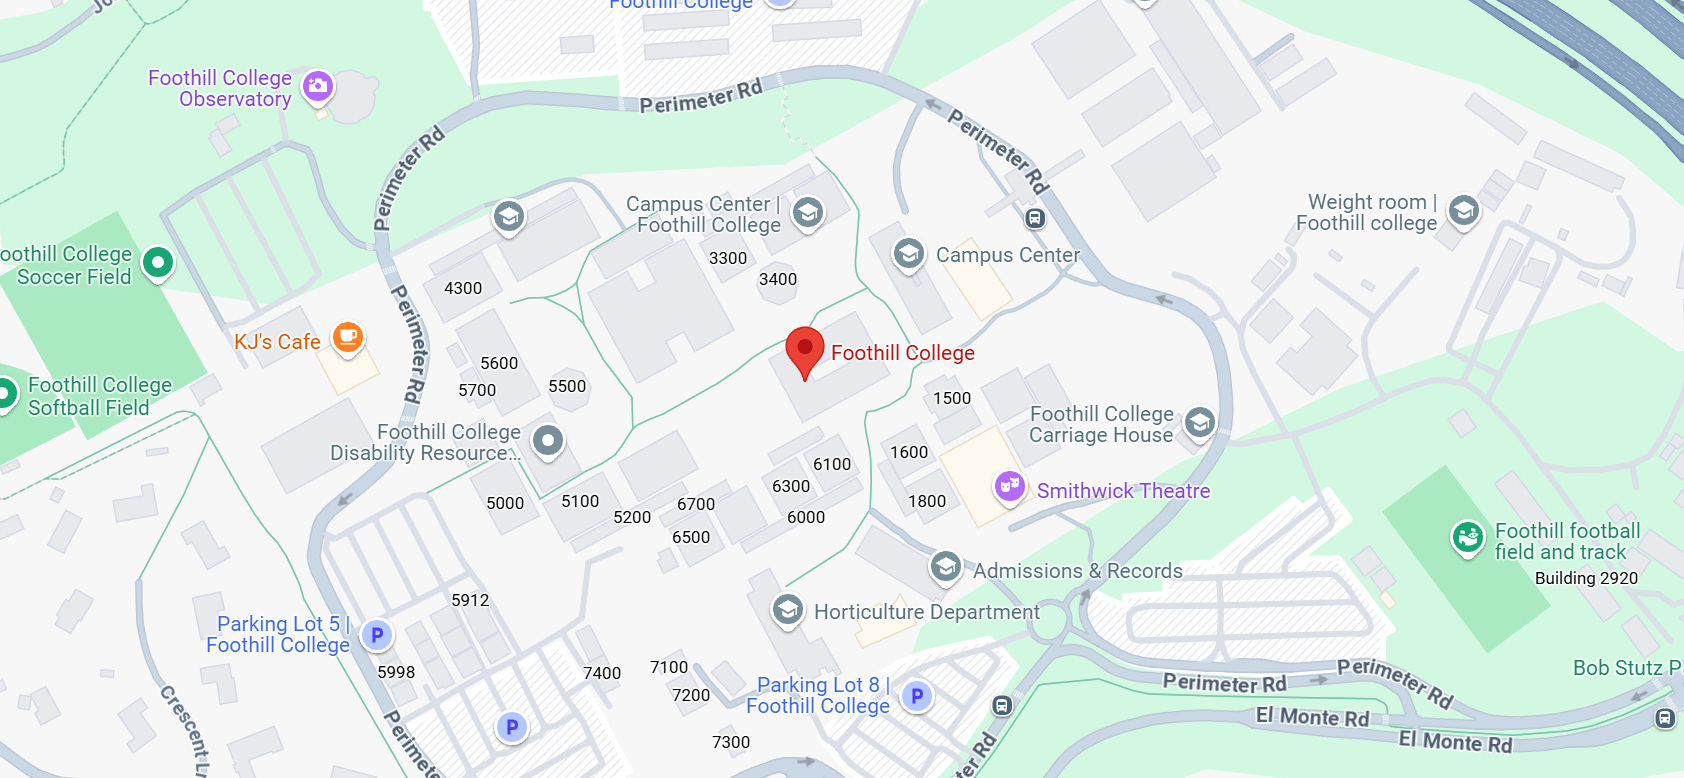
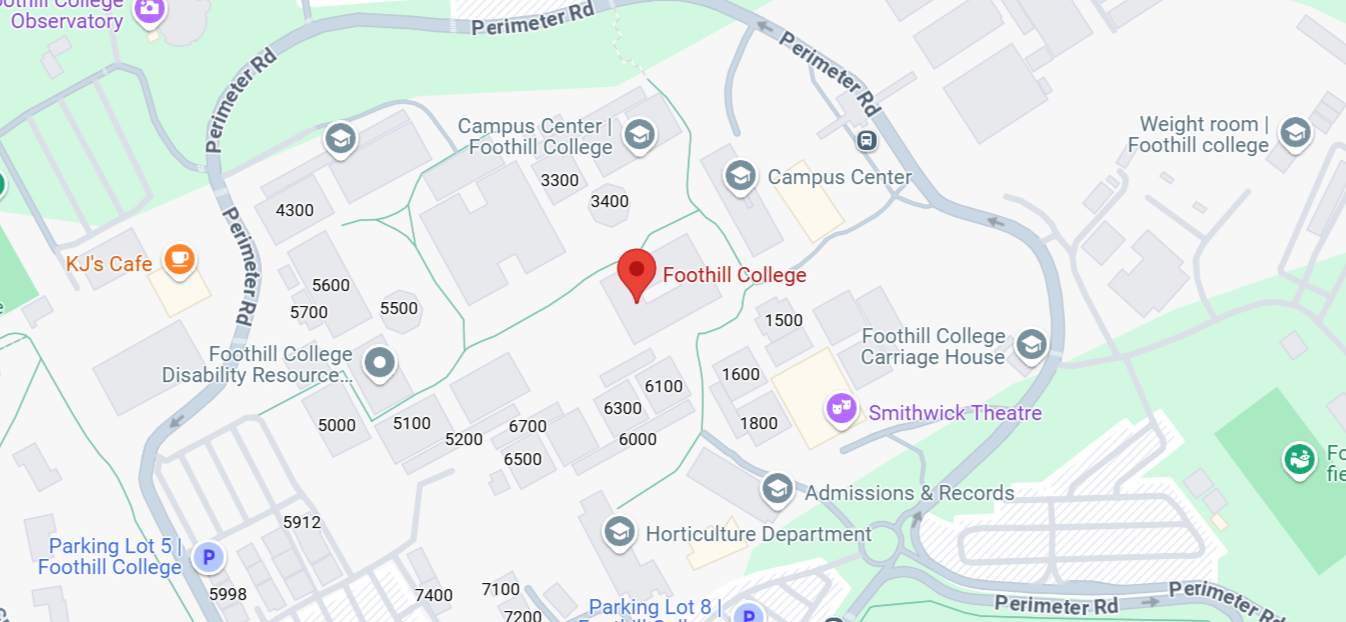
updated venue

diff --git a/client/src/features/attendee/AttendeeContainer.tsx b/client/src/features/attendee/AttendeeContainer.tsx
@@ -2,6 +2,9 @@
 import Image from "next/image";
 import cloud from "../../../public/Dark Purple Cloud Mid.png"
 import cloud2 from "../../../public/Dark Purple Cloud Back2.png"
+import pinkcloud1 from "../../../public/leftmapcloud.png"
+import pinkcloud2 from "../../../public/Purple Cloud Cluster.png"
+import pinkcloud3 from "../../../public/rightmapcloud.png"
 import AttendeeCard from "./ui/AttendeeCard"
 import minh from "../../../public/minh.jpg"
 import ethan from "../../../public/ethan.png"
@@ -17,6 +20,9 @@ export default function AttendeeContainer() {
         <div className="relative bg-gradient-to-t from-bgpurple to-richpurple py-20 lg:py-60 w-full h-auto overflow-x-clip pointer-events-none">
             <Image src={cloud} className="top-[150px] md:top-[0px] -left-[50px] z-0 absolute w-[250px] sm:w-[300px] md:w-[500px] 2xl:w-[1000px] h-auto animate-swaying ease-linear pointer-events-none" alt="cloud " />
             <Image src={cloud2} className="top-[200px] md:top-[100px] -right-[40px] z-0 absolute w-[250px] sm:w-[300px] md:w-[500px] 2xl:w-[1000px] h-auto animate-swaying ease-linear" alt="cloud" />
+            <Image src={pinkcloud1} className="-bottom-[35px] md:-bottom-[40px] 2xl:-bottom-[50px] -left-10 z-50 absolute w-[200px] sm:w-[250px] md:w-[300px] 2xl:w-[350px] h-auto animate-swaying ease-linear pointer-events-none" alt="cloud"></Image>
+            <Image src={pinkcloud2} className="-bottom-[50px] -left-10 z-0 absolute w-[150px] sm:w-[200px] md:w-[250px] 2xl:w-[300px] h-auto pointer-events-none" alt="cloud"></Image>
+            <Image src={pinkcloud3} className="-right-10 -bottom-[60px] md:-bottom-[75px] 2xl:-bottom-[115px] z-50 absolute w-[200px] sm:w-[250px] md:w-[300px] 2xl:w-[450px] h-auto animate-swaying ease-linear pointer-events-none" alt="cloud"></Image>
             <div className="relative mx-auto w-full">
                 <h2 className="z-10 m-10 font-bagel text-[1.5rem] text-white lg:text-[3rem] text-center">What past attendees have said</h2>
                 <div className="flex md:flex-row flex-col items-center">

diff --git a/client/src/features/venue/map.tsx b/client/src/features/venue/map.tsx
@@ -1,15 +1,16 @@
 import Image from "next/image"
 import VenueCard from "./ui//VenueCard"
 import map from "../../../public/maps.png"
+import img from "../../../public/BG.png"
 //bg-gradient-to-t from-red-400 to-blue-400
 //<div className="bottom-0 z-30 absolute bg-gradient-to-t from-[#8F43D8] to-transparent opacity-[100%] w-full h-[100px]"></div>
 export default function VenueContainer() {
     return (
-    <div className="flex bg-[#8F43D8] pb-[650px] w-full h-[500px] pointer-events-none">
+    <div className="flex bg-bgpurple pb-[650px] w-full h-[500px] pointer-events-none">
         <div className="relative flex items-center my-auto w-full h-[500px]">
-        <div className="top-0 z-30 absolute bg-gradient-to-b from-bgpurple to-transparent opacity-[100%] w-full h-[100px]"></div>
-            <Image src={map} alt="foothill" fill className="absolute w-full object-cover" quality={80}/>
-            <div className="bottom-0 z-30 absolute bg-gradient-to-t from-[#8F43D8] to-transparent opacity-[100%] w-full h-[150px]"></div>
+        <div className="top-0 z-30 absolute bg-gradient-to-b from-bgpurple to-transparent opacity-[100%] -mt-[1px] w-full h-[100px]"></div>
+            <Image src={map} alt="foothill" fill className="absolute border-1 border-black w-full object-cover" quality={80}/>
+            <div className="bottom-0 z-30 absolute bg-gradient-to-t from-bgpurple to-transparent opacity-[100%] -mb-[1px] w-full h-[150px]"></div>
             <VenueCard></VenueCard>
         </div>
     </div>

diff --git a/client/src/features/venue/ui/VenueCard.tsx b/client/src/features/venue/ui/VenueCard.tsx
@@ -1,13 +1,13 @@
-import { bagel_Fat_One, montserrat_Alternates } from '../../../app/styles/fonts'
+
 import Image from 'next/image'
 import foothill from '../../../../public/foothill.png'
 export default function VenueCard() {
     return (
         <div className='-bottom-[150px] absolute flex justify-center items-end border-black w-[100%] h-full'>
             <div className='lg:bottom-[185px] 2xl:bottom-[160px] lg:left-20 2xl:left-[300px] z-30 absolute bg-white shadow-2xl p-4 rounded-[20px] w-[80%] sm:w-[400px] 2xl:w-[400px] max-w-[350px] 2xl:max-w-[400px] h-auto 2xl:h-[490px]'>
-                <h2 className={` text-[2rem] ${bagel_Fat_One.className} mb-4 2xl:px-2 text-[2.5rem]`}>Venue</h2>
+                <h2 className={` text-[2rem] font-bagel mb-4 2xl:px-2 text-[2.5rem]`}>Venue</h2>
                 <Image src={foothill} alt='foothill' className='mx-auto 2xl:px-2 rounded-lg w-[100%] h-auto'></Image>
-                <div className={`${montserrat_Alternates.className} 2xl:px-2`}>
+                <div className={`font-mont 2xl:px-2`}>
                     <h3 className='my-4 font-bold text-[1.2rem] 2xl:text-[1.5rem]'>Foothill College</h3>
                     <p className='text-[#696E75] 2xl:text-[1.3rem]'>12345 El Monte Road</p>
                     <p className='text-[#696E75] 2xl:text-[1.3rem]'>Los Altos Hills, CA 94022</p>

diff --git a/client/src/app/page.tsx b/client/src/app/page.tsx
@@ -18,9 +18,9 @@ export default function HomePage() {
       <Navbar></Navbar>
       <FrontPage></FrontPage>
       <About></About>
-
+      
       <AttendeeContainer/>
-      {/* <Venue></Venue> */}
+      <Venue></Venue>
       <VolunteerJudgeContainer></VolunteerJudgeContainer>
       <Footer></Footer>
     </div>
